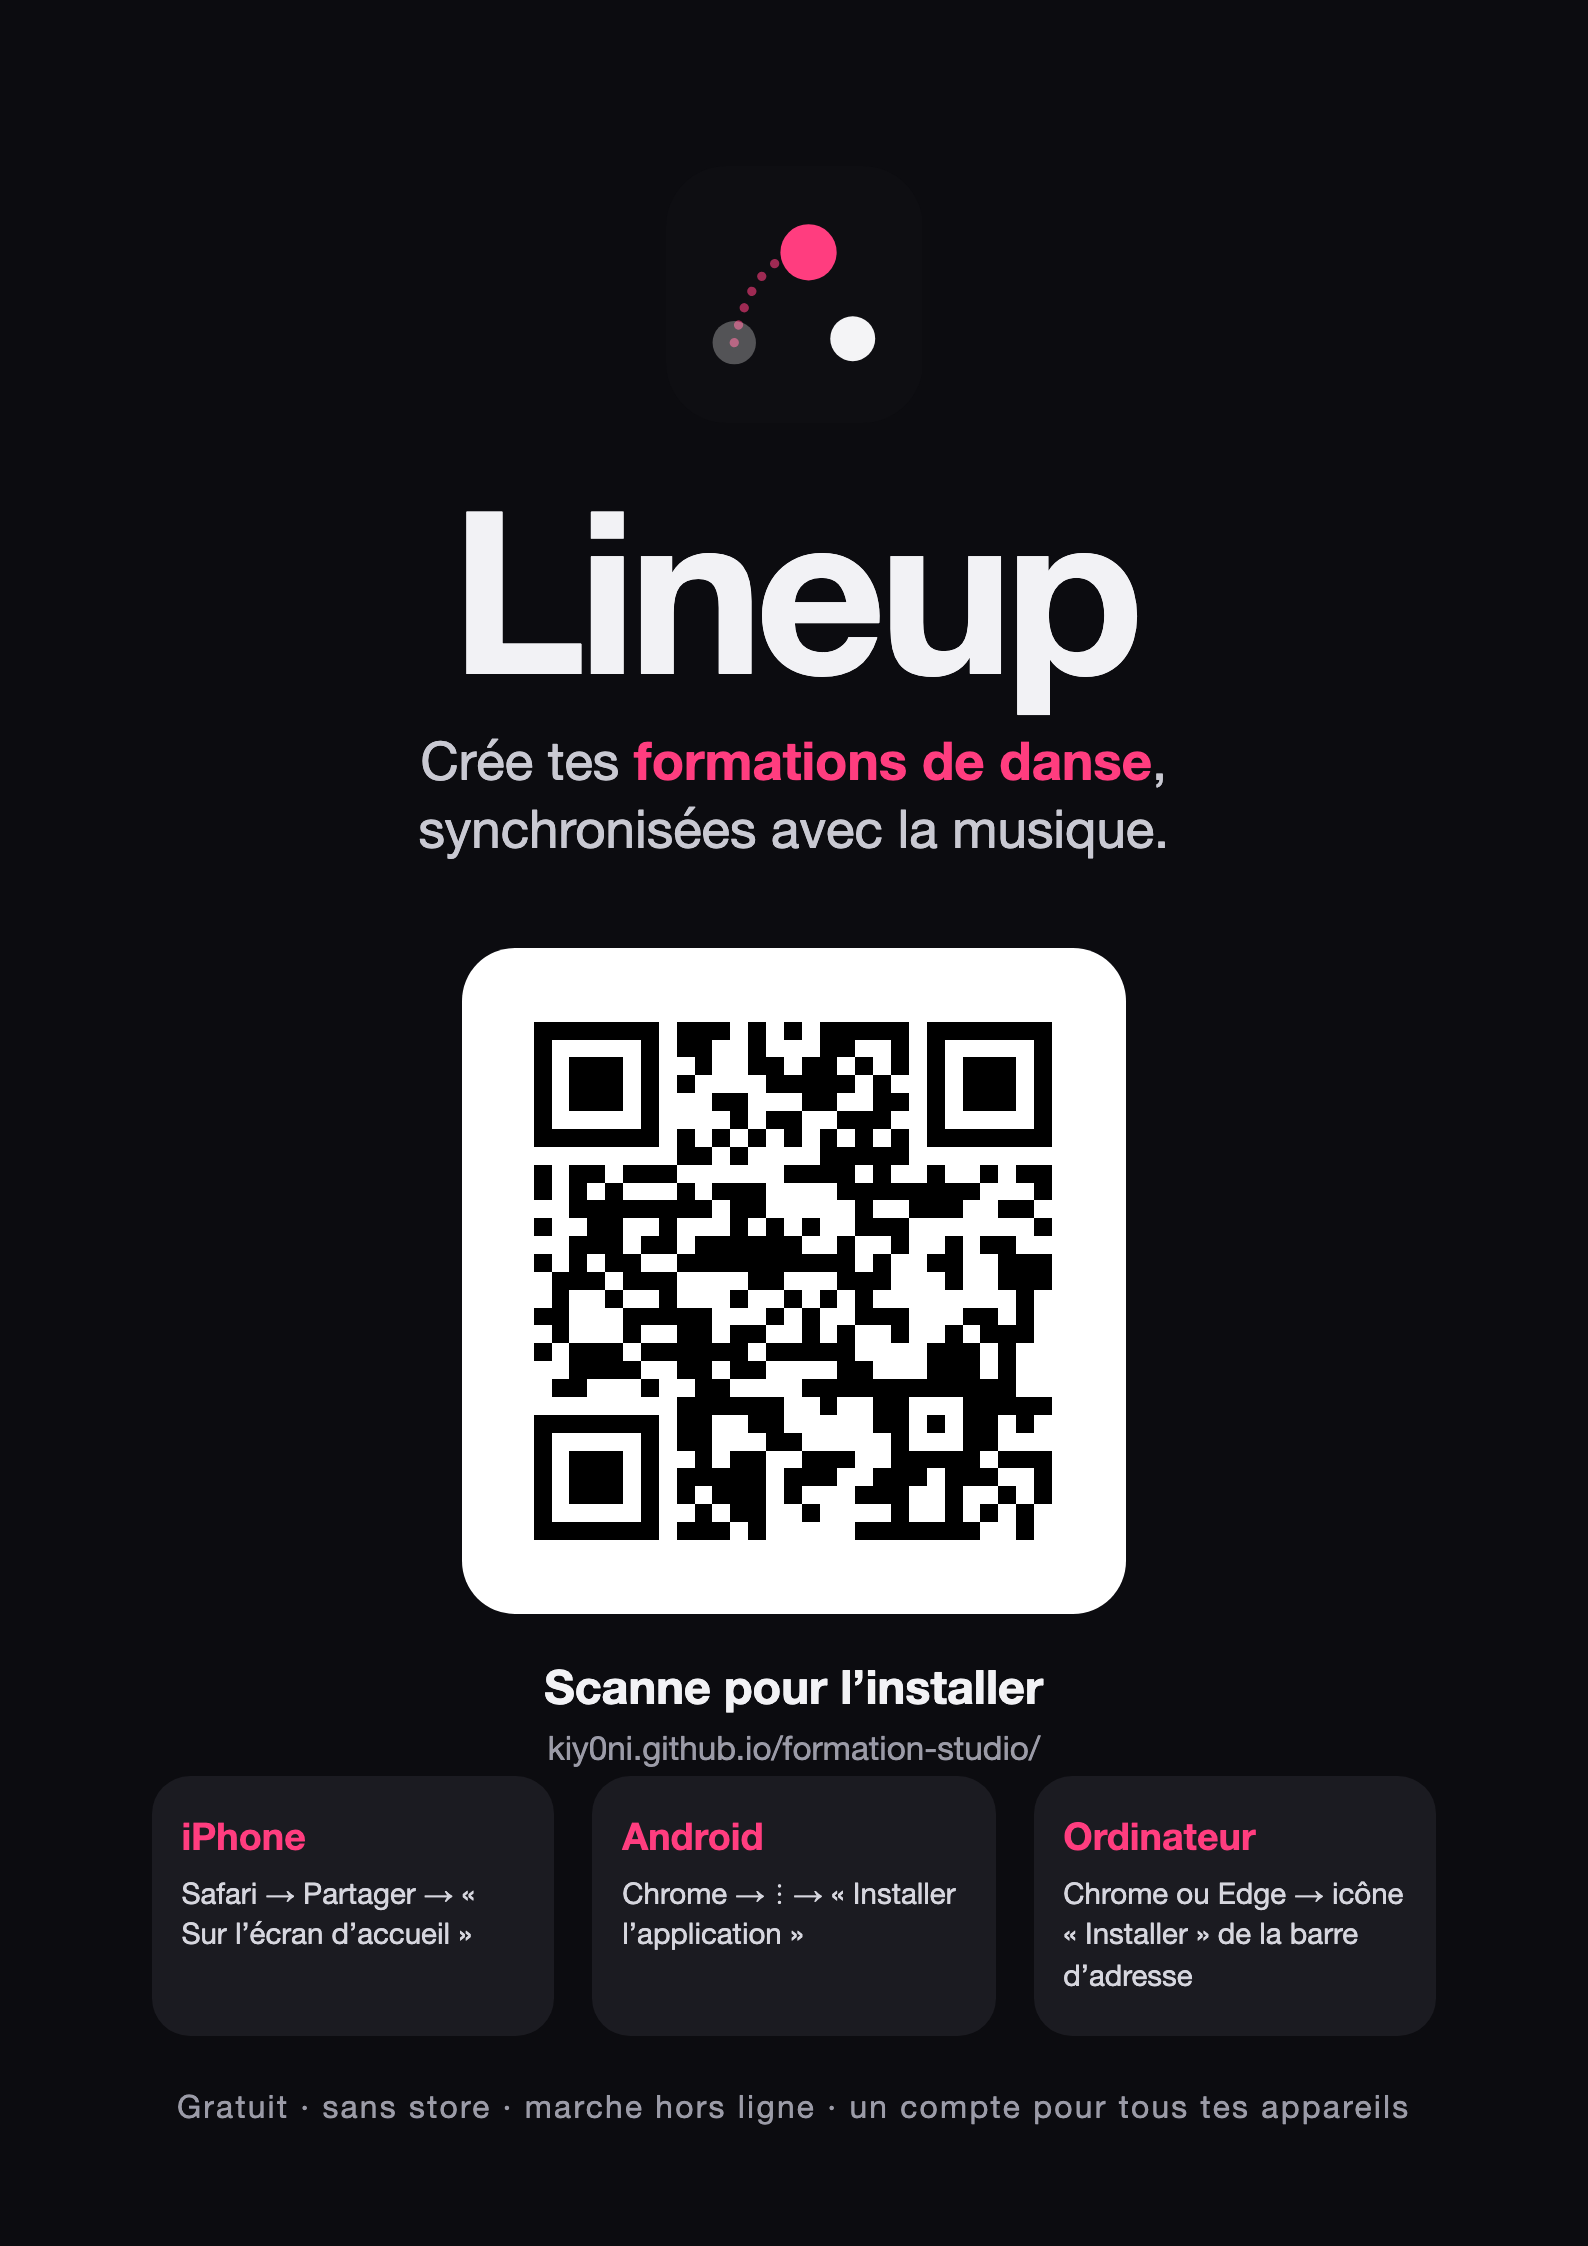
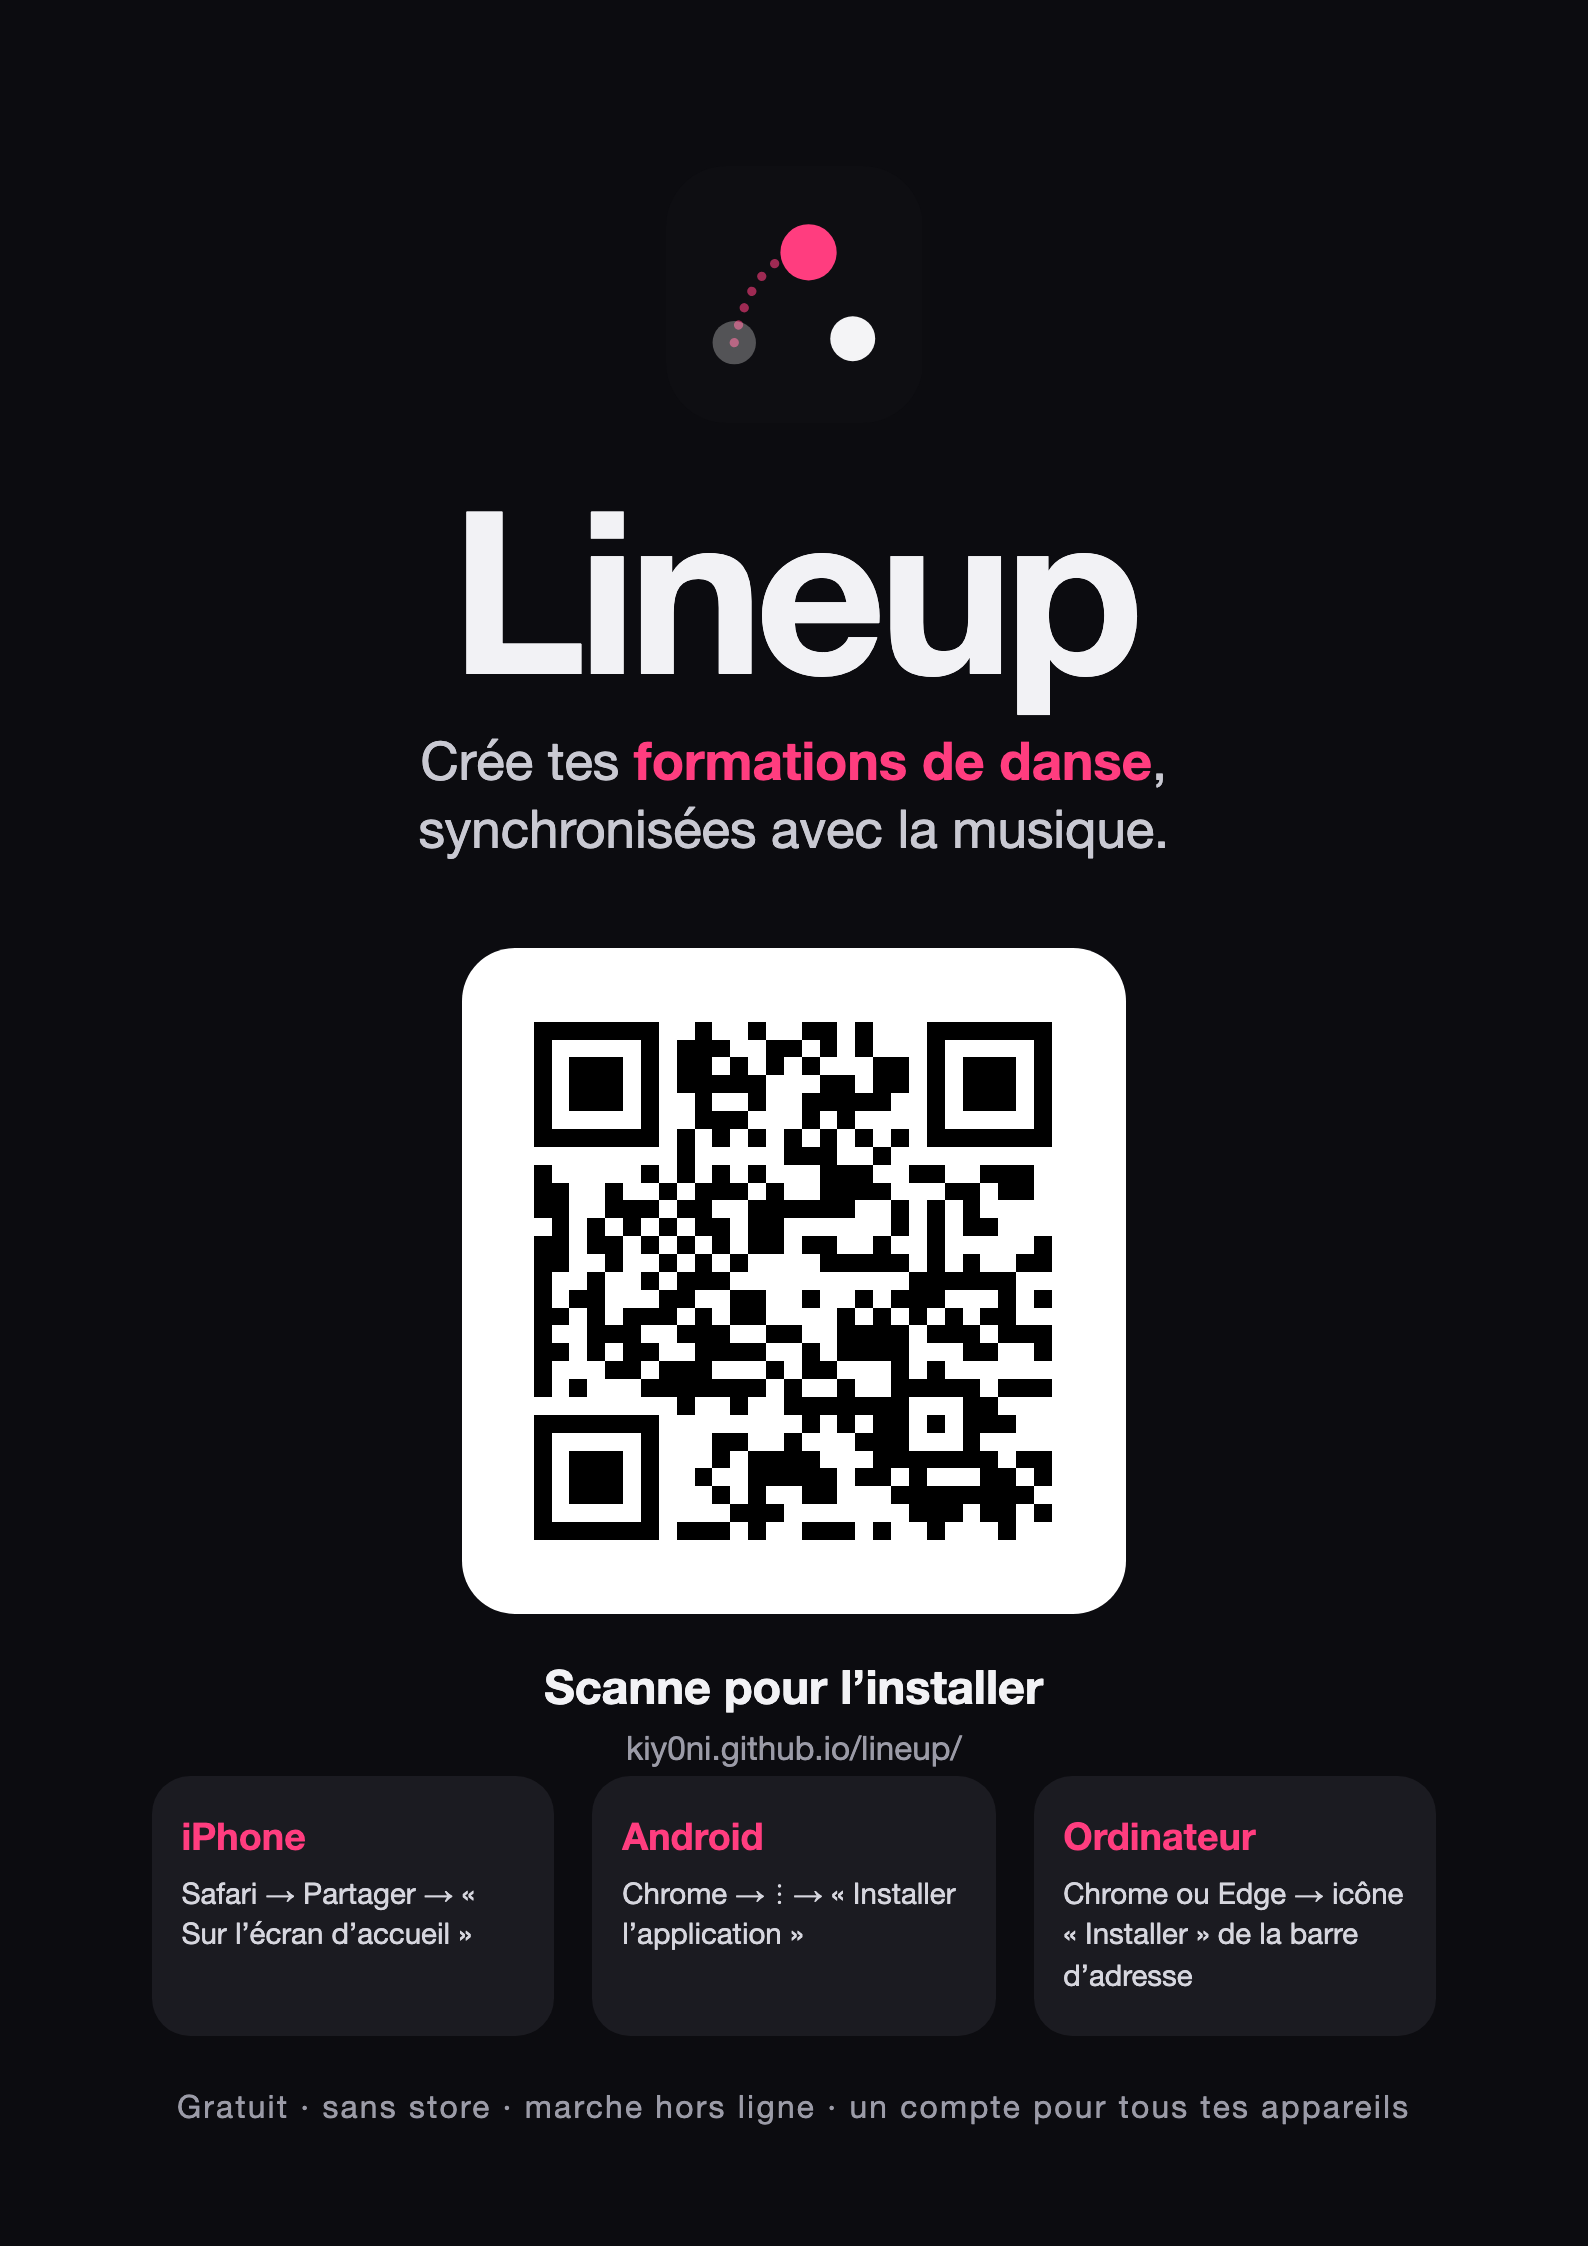
Dépôt renommé lineup : adresse du site, dépôt des téléchargements et mises à jour, affiche (QR), scripts, tests, README

Changed region(s): [[0.3394, 0.4363, 0.6788, 0.6857], [0.432, 0.748, 0.4937, 0.8103], [0.5863, 0.7792, 0.6171, 0.8103]]

diff --git a/src/lib/install.ts b/src/lib/install.ts
@@ -1,3 +1,4 @@
+import { REPO } from './platform';
 // Captures the browser's install prompt as early as possible (imported from main.tsx).
 
 interface InstallPromptEvent extends Event {
@@ -74,5 +75,5 @@ export function detectPlatform(): Platform {
 /** Terminal line that installs the latest Mac app without the "downloaded from the internet" block. */
 export function macInstallCommand(intel: boolean) {
   const file = intel ? 'Lineup-mac-intel.dmg' : 'Lineup-mac-apple-silicon.dmg';
-  return `curl -L -o /tmp/Lineup.dmg https://github.com/kiy0ni/formation-studio/releases/latest/download/${file} && hdiutil attach -nobrowse -mountpoint /tmp/lineup-dmg /tmp/Lineup.dmg && rm -rf /Applications/Lineup.app && ditto /tmp/lineup-dmg/Lineup.app /Applications/Lineup.app && hdiutil detach /tmp/lineup-dmg && open /Applications/Lineup.app`;
+  return `curl -L -o /tmp/Lineup.dmg https://github.com/${REPO}/releases/latest/download/${file} && hdiutil attach -nobrowse -mountpoint /tmp/lineup-dmg /tmp/Lineup.dmg && rm -rf /Applications/Lineup.app && ditto /tmp/lineup-dmg/Lineup.app /Applications/Lineup.app && hdiutil detach /tmp/lineup-dmg && open /Applications/Lineup.app`;
 }

diff --git a/src/components/UpdateNotice.tsx b/src/components/UpdateNotice.tsx
@@ -1,5 +1,5 @@
 import { useEffect, useState } from 'react';
-import { APP_VERSION, downloadForThisDevice, IS_NATIVE_APP, isNewer, openExternal } from '../lib/platform';
+import { APP_VERSION, downloadForThisDevice, IS_NATIVE_APP, isNewer, openExternal, REPO } from '../lib/platform';
 import { Icon } from './common/Icon';
 
 const CHECK_EVERY = 6 * 3600 * 1000;
@@ -16,7 +16,7 @@ export function UpdateNotice() {
     const cached = localStorage.getItem('fs-update-latest');
     if (cached) show(cached);
     if (Date.now() - Number(localStorage.getItem('fs-update-check') || 0) < CHECK_EVERY) return;
-    fetch('https://api.github.com/repos/kiy0ni/formation-studio/releases/latest', { headers: { Accept: 'application/vnd.github+json' } })
+    fetch(`https://api.github.com/repos/${REPO}/releases/latest`, { headers: { Accept: 'application/vnd.github+json' } })
       .then((r) => (r.ok ? r.json() : null))
       .then((release) => {
         const v = typeof release?.tag_name === 'string' ? release.tag_name.replace(/^v/, '') : null;

diff --git a/src/components/library/ShareAppDialog.tsx b/src/components/library/ShareAppDialog.tsx
@@ -3,7 +3,7 @@ import { Icon } from '../common/Icon';
 import { notify } from '../common/Toast';
 import { Modal } from '../common/ui';
 
-export const SITE_URL = 'https://kiy0ni.github.io/formation-studio/';
+export const SITE_URL = 'https://kiy0ni.github.io/lineup/';
 const MESSAGE = 'Lineup : créez vos formations de danse, synchronisées avec la musique. Gratuit.';
 
 /** QR code as SVG squares (black on white, readable by every phone camera). */

diff --git a/src/lib/platform.ts b/src/lib/platform.ts
@@ -14,7 +14,7 @@ export const CAN_OPEN_WINDOWS = !Capacitor.isNativePlatform() && !(typeof matchM
 
 export const APP_VERSION: string = __APP_VERSION__;
 
-const REPO = 'kiy0ni/formation-studio';
+export const REPO = 'kiy0ni/lineup';
 export const RELEASES_PAGE = `https://github.com/${REPO}/releases/latest`;
 const asset = (name: string) => `https://github.com/${REPO}/releases/latest/download/${name}`;
 export const DOWNLOADS = {

diff --git a/README.md b/README.md
@@ -4,7 +4,7 @@ Application web pour créer des **formations de danse K-pop synchronisées avec 
 
 ## Applications à télécharger (Mac, Windows, Android)
 
-Les dernières versions sont sur **https://github.com/kiy0ni/formation-studio/releases/latest** (aussi accessibles depuis le bouton « Installer l'app » du site) :
+Les dernières versions sont sur **https://github.com/kiy0ni/lineup/releases/latest** (aussi accessibles depuis le bouton « Installer l'app » du site) :
 
 | Appareil | Fichier |
 | --- | --- |
@@ -26,9 +26,13 @@ Les apps sont distribuées hors des stores, sans certificat payant : un avertiss
 
 **Clé de signature Android** : `~/.formation-studio/android-release.jks` et `android-signing.properties` (hors du dépôt). Sauvegardez ce dossier en lieu sûr : sans cette clé, les téléphones refuseront d'installer une mise à jour par-dessus l'app existante.
 
+## Adresse
+
+Le dépôt s'appelle **kiy0ni/lineup** (anciennement `formation-studio`). Le site est sur **https://kiy0ni.github.io/lineup/**. L'ancienne adresse `https://kiy0ni.github.io/formation-studio/` (apps installées, QR des premières affiches, liens de partage déjà envoyés) renvoie vers la nouvelle grâce au dépôt `kiy0ni/kiy0ni.github.io` (page de redirection qui garde le lien de partage `#/join/…`). Ne pas recréer de dépôt nommé `formation-studio` : GitHub cesserait de rediriger les anciens liens de téléchargement vers `lineup`.
+
 ## Installer l'app (Mac, Android, iPhone)
 
-Ouvrez **https://kiy0ni.github.io/formation-studio/** puis :
+Ouvrez **https://kiy0ni.github.io/lineup/** puis :
 
 - **Mac – Safari** : menu *Fichier* → *Ajouter au Dock…*
 - **Mac – Chrome / Edge** : icône d'installation à droite de la barre d'adresse

diff --git a/tests/e2e/README.md b/tests/e2e/README.md
@@ -1,6 +1,6 @@
 # Tests navigateur
 
-`npm run test:e2e` construit l'app, la sert sur `http://127.0.0.1:8811/formation-studio/` et lance chaque `*.test.mjs` de ce dossier (Chromium via playwright-core : `CHROME=/chemin/vers/chrome`, sinon le Chromium de Playwright).
+`npm run test:e2e` construit l'app, la sert sur `http://127.0.0.1:8811/lineup/` et lance chaque `*.test.mjs` de ce dossier (Chromium via playwright-core : `CHROME=/chemin/vers/chrome`, sinon le Chromium de Playwright).
 
 - `panels-test` : disposition ordinateur (panneaux redimensionnables, vidéo en colonne, notifications), petit portable, téléphone et téléphone en paysage.
 - `phone-audit` : 57 écrans × 3 tailles de téléphone, rien de coupé, couvert ni trop petit. Crée un compte de test sur le service de comptes puis le supprime.
